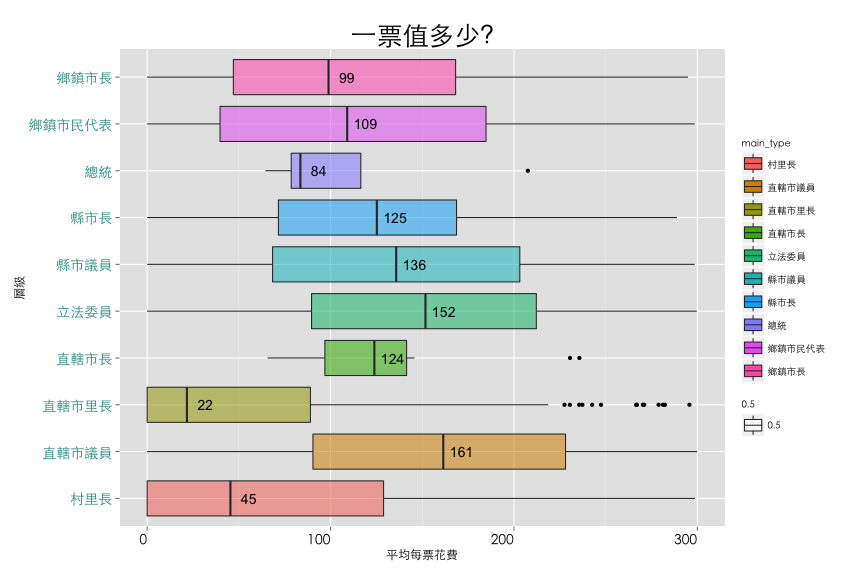
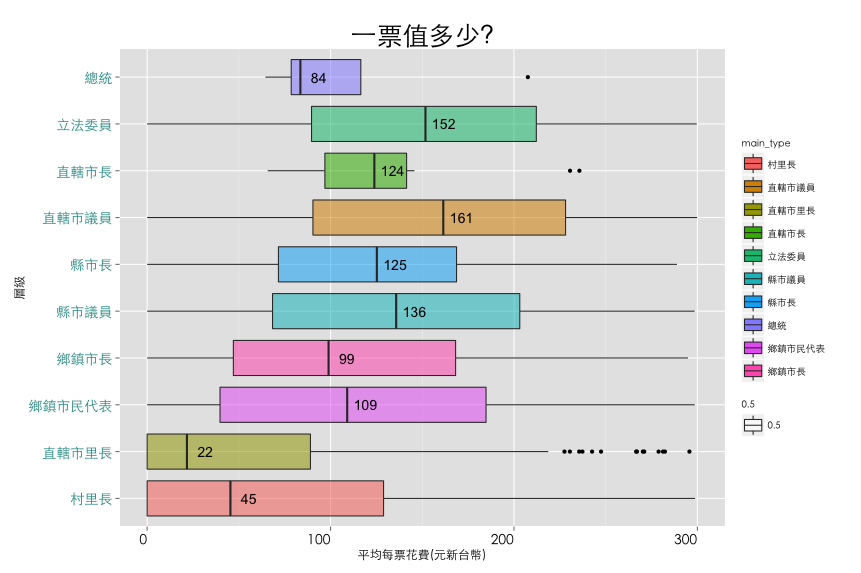
大修改

diff --git a/index.html b/index.html
@@ -20,7 +20,7 @@
 
 <body class="body">
 
-<div class="navbar  navbar-fixed-top main_bg " role="navigation">
+<div class="navbar  navbar-fixed-top main_bg shadow " role="navigation">
   <div class="container">
     <div class="navbar-header">
     <!--Project Name -->
@@ -92,14 +92,31 @@
         <li>令人驚訝的事情是<strong>選總統需要的金額居然只要86元就可以，這是每張選票的價值中第三低的</strong>，不過考慮到當選需要的票數，除非真的擁有全國性的高知名度，真的不建議直接選總統（後面會再探討)．</li>
         <li>最後可以看見不論是鄉鎮市集，縣市，直轄市，全國哪一個等級，<strong>民意代表的每張票價值都是比地方或全國首長還要高</strong>，這是否隱含當民代的權力與後續帶來的好處都比較好呢?這是值得後續探究的問題</li>
         </ol>
+
     </div>
   </div>
+
 <!-- Figure2 -->
   <div class="row row_padding">
     <div class="col-md-12 shadow white_bg">
-      <h2>平均每個層次每張選票需要的花費</h2>
-      <div id="avg_cost" class="col-md-8"></div>
-      <div id="avg_cost" class="col-md-3 col-md-offset-1">
+      <h2>政黨每張票需要的花費的金額</h2>
+
+
+      <p>第一張為民意代表在各政黨的票價．橫軸單位<strong>元新台幣</strong>，縱軸為<strong>選舉類別</strong>．透過Boxplot，找出各級選舉平均每張票的Q1 Q3 與中位數．</p>
+
+        <img src="./res/F2.png" alt="民意代表" class="img-thumbnail img-responsive shadow row_padding"/>
+
+        <p>第二張為全國或地方首長在各政黨的票價．橫軸單位<strong>元新台幣</strong>，縱軸為<strong>選舉類別</strong>．透過Boxplot，找出各級選舉平均每張票的Q1 Q3 與中位數．</p>
+
+        <img src="./res/F3.png" alt="民意代表" class="img-thumbnail img-responsive shadow row_padding"/>
+
+ <ol>
+        <li>透過這個簡單的分析可以看見，<strong>村里長每張票所需要的金額一個50銅板就有找，同時選里長需要的票數也是各層級較少的</strong>，如果經費有限制的話，不仿從里長開始進行一開始的選舉之路．</li>
+        <li>令人驚訝的事情是<strong>選總統需要的金額居然只要86元就可以，這是每張選票的價值中第三低的</strong>，不過考慮到當選需要的票數，除非真的擁有全國性的高知名度，真的不建議直接選總統（後面會再探討)．</li>
+        <li>最後可以看見不論是鄉鎮市集，縣市，直轄市，全國哪一個等級，<strong>民意代表的每張票價值都是比地方或全國首長還要高</strong>，這是否隱含當民代的權力與後續帶來的好處都比較好呢?這是值得後續探究的問題</li>
+        </ol>
+
+
       </div>
     </div>
   </div>
